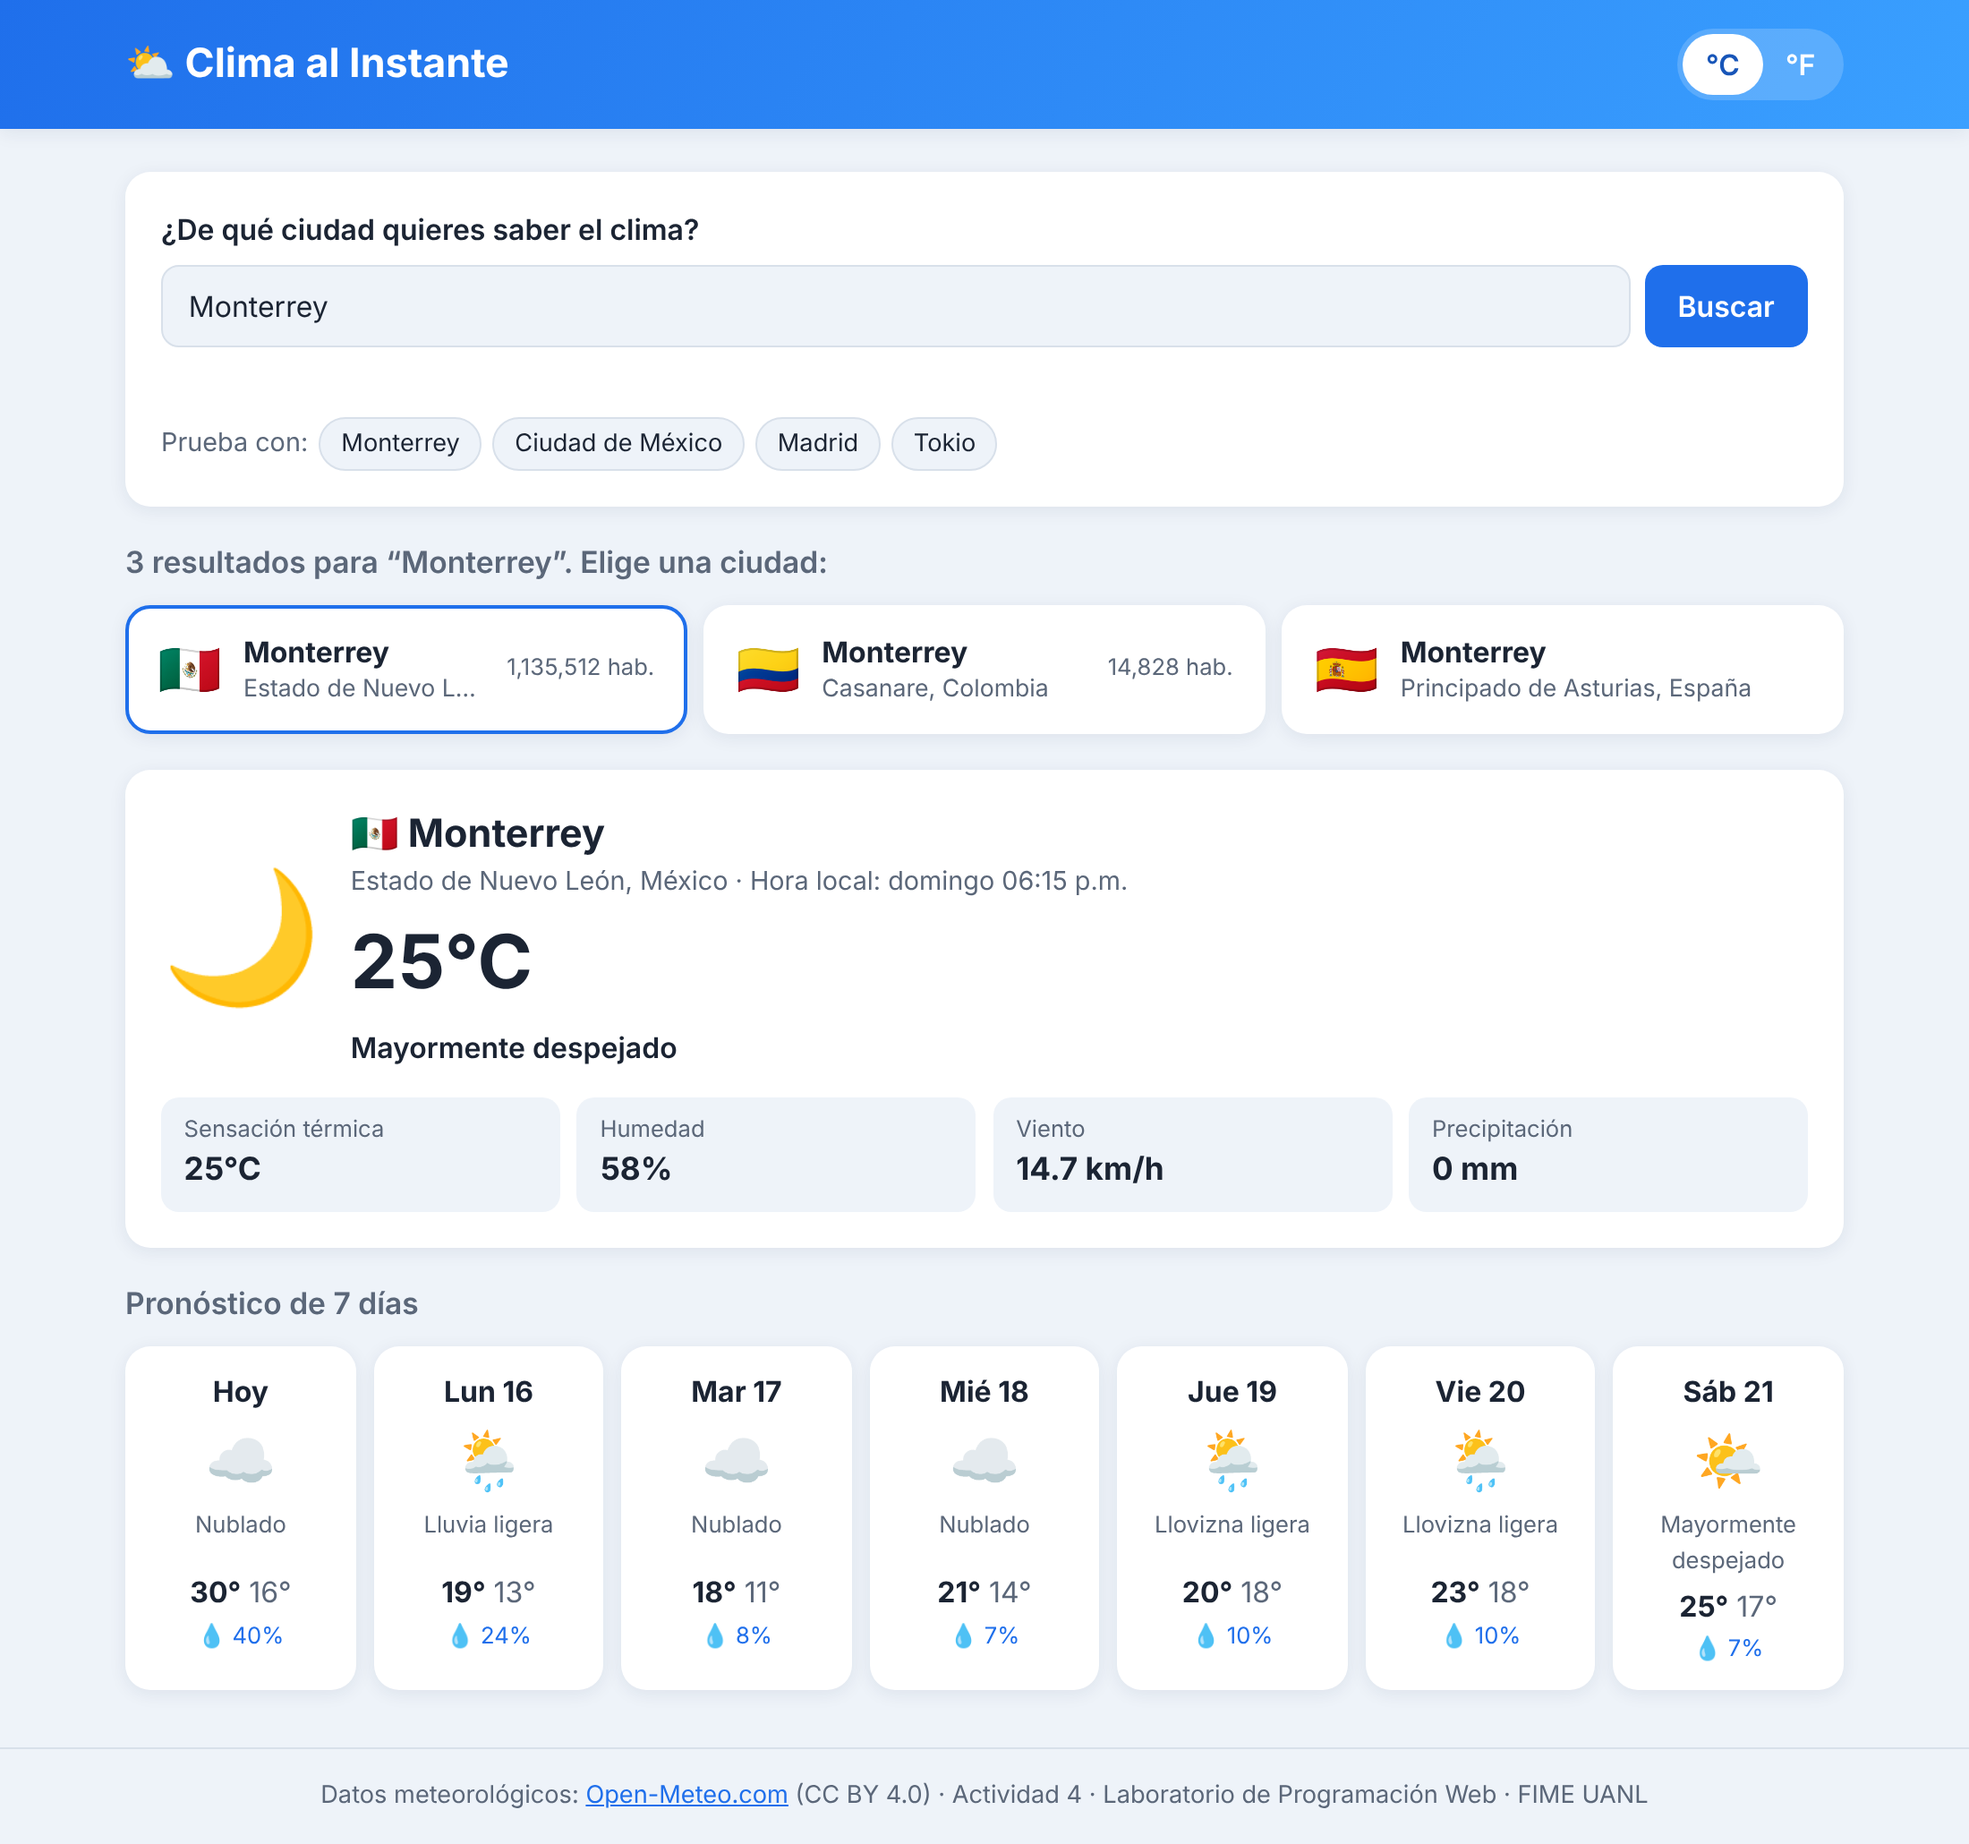
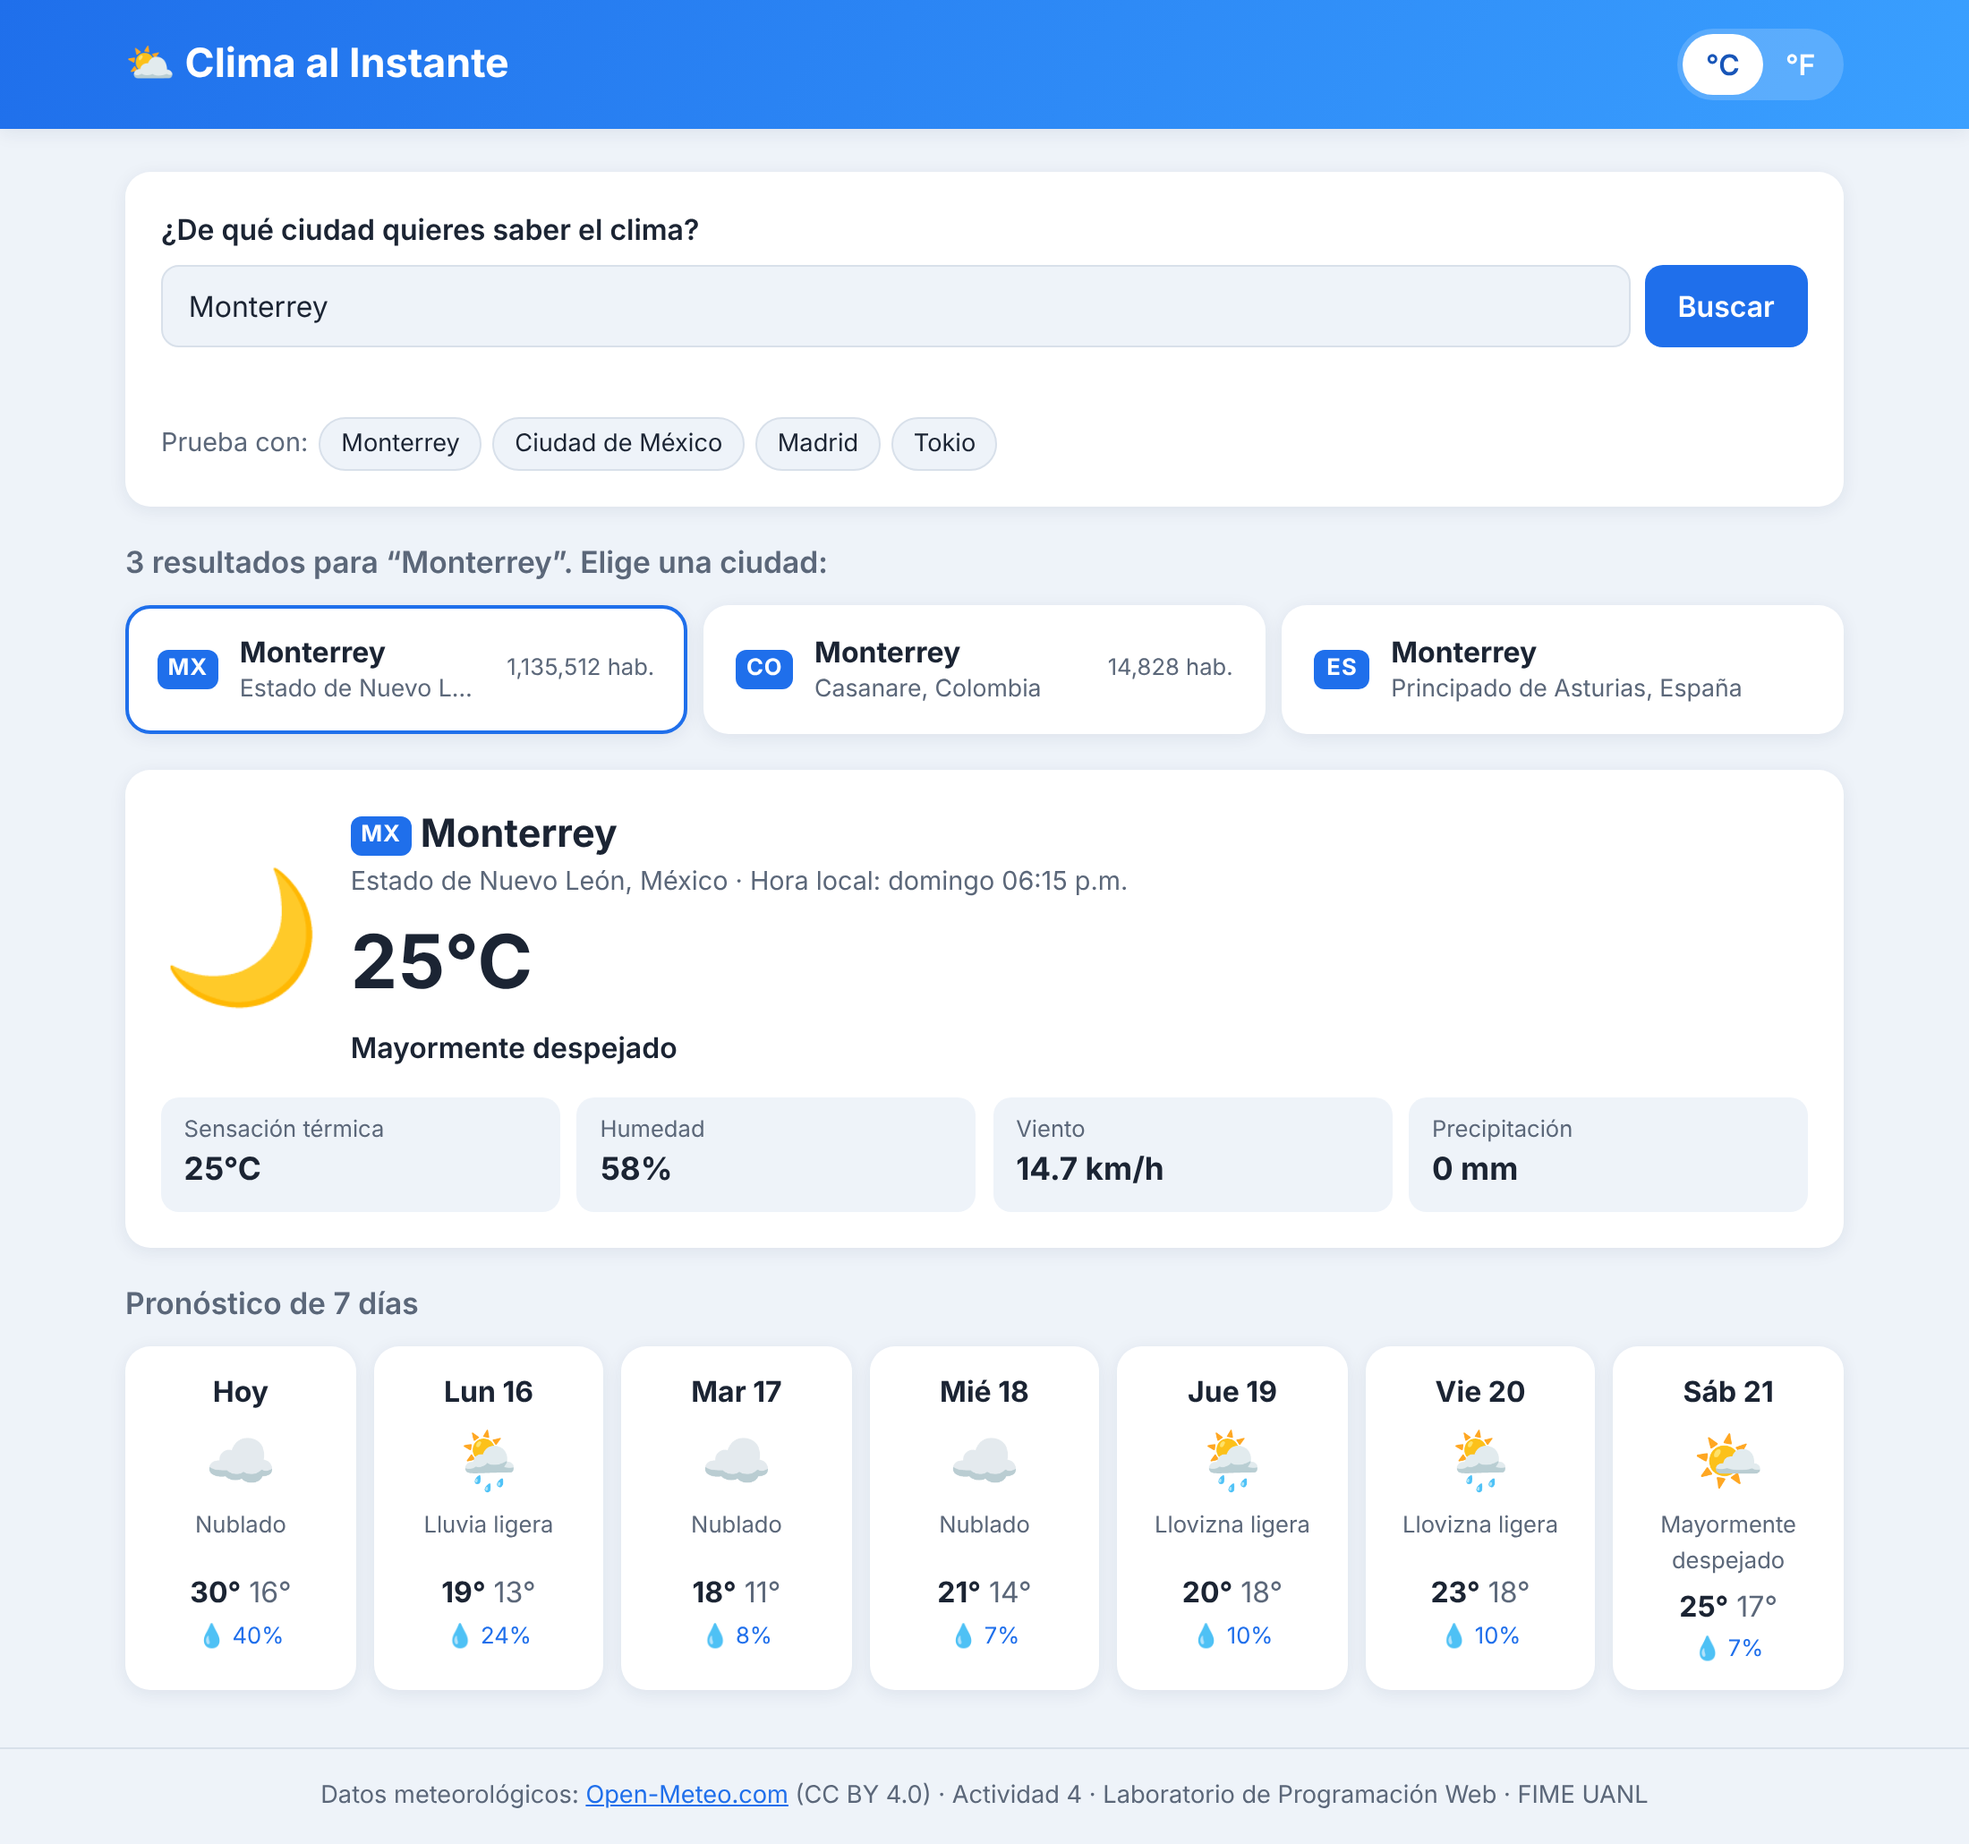
Muestra el código de país en lugar del emoji de bandera (Windows no lo dibuja) y actualiza capturas

diff --git a/js/ui.js b/js/ui.js
@@ -15,10 +15,14 @@ function crear(etiqueta, clase, texto) {
   return el;
 }
 
-/** Convierte un código de país ISO (MX) a su emoji de bandera (🇲🇽). */
-function bandera(codigoPais) {
-  if (!codigoPais || codigoPais.length !== 2) return '🌍';
-  return String.fromCodePoint(...[...codigoPais.toUpperCase()].map((c) => 0x1f1a5 + c.charCodeAt(0)));
+/**
+ * Crea una etiqueta con el código ISO del país (MX, ES, JP…).
+ * Se usa en lugar del emoji de bandera porque Windows no dibuja esos emojis.
+ */
+function etiquetaPais(codigoPais) {
+  const el = crear('span', 'pais', codigoPais ? codigoPais.toUpperCase() : '—');
+  el.setAttribute('aria-hidden', 'true');
+  return el;
 }
 
 function reemplazar(contenedor, ...hijos) {
@@ -103,7 +107,7 @@ export function mostrarCiudades(contenedor, ciudades, consulta, alSeleccionar) {
   for (const ciudad of ciudades) {
     const nodo = plantilla.content.cloneNode(true);
     const boton = nodo.querySelector('.ciudad');
-    nodo.querySelector('.ciudad__bandera').textContent = bandera(ciudad.country_code);
+    nodo.querySelector('.ciudad__bandera').append(etiquetaPais(ciudad.country_code));
     nodo.querySelector('.ciudad__nombre').textContent = ciudad.name;
     nodo.querySelector('.ciudad__region').textContent =
       [ciudad.admin1, ciudad.country].filter(Boolean).join(', ') || 'Región desconocida';
@@ -145,8 +149,10 @@ export function mostrarPronostico(contenedor, ciudad, datos) {
   const horaLocal = new Date(actual.time).toLocaleString('es-MX', {
     weekday: 'long', hour: '2-digit', minute: '2-digit',
   });
+  const lugar = crear('h2', 'actual__lugar');
+  lugar.append(etiquetaPais(ciudad.country_code), ` ${ciudad.name}`);
   textos.append(
-    crear('h2', 'actual__lugar', `${bandera(ciudad.country_code)} ${ciudad.name}`),
+    lugar,
     crear('p', 'actual__sub', `${[ciudad.admin1, ciudad.country].filter(Boolean).join(', ')} · Hora local: ${horaLocal}`),
     crear('p', 'actual__temp', `${Math.round(actual.temperature_2m)}${u.temperature_2m}`),
     crear('p', 'actual__desc', descripcion),

diff --git a/css/styles.css b/css/styles.css
@@ -123,7 +123,13 @@ main { flex: 1; padding-bottom: 2rem; }
 }
 .ciudad:hover, .ciudad:focus-visible { transform: translateY(-2px); border-color: var(--primario); outline: none; }
 .ciudad.seleccionada { border-color: var(--primario); }
-.ciudad__bandera { font-size: 1.8rem; line-height: 1; }
+.ciudad__bandera { line-height: 1; }
+.pais {
+  display: inline-block; min-width: 2.4em; text-align: center; vertical-align: middle;
+  font-size: .8rem; font-weight: 700; letter-spacing: .04em; line-height: 1;
+  padding: .35em .45em; border-radius: 6px;
+  background: var(--primario); color: #fff;
+}
 .ciudad__texto { display: flex; flex-direction: column; flex: 1; min-width: 0; }
 .ciudad__region { color: var(--texto-suave); overflow: hidden; text-overflow: ellipsis; white-space: nowrap; }
 .ciudad__poblacion { font-size: .8rem; color: var(--texto-suave); white-space: nowrap; }

diff --git a/index.html b/index.html
@@ -58,7 +58,7 @@
   <template id="tpl-ciudad">
     <li>
       <button type="button" class="ciudad">
-        <span class="ciudad__bandera" aria-hidden="true"></span>
+        <span class="ciudad__bandera"></span>
         <span class="ciudad__texto">
           <strong class="ciudad__nombre"></strong>
           <small class="ciudad__region"></small>

diff --git a/README.md b/README.md
@@ -119,7 +119,7 @@ Todos los errores muestran un botón **Reintentar**.
 
 1. Abre la aplicación: **https://leyesdavila.github.io/clima-al-instante/**
 2. Escribe el nombre de una ciudad (mínimo 2 letras) y presiona **Buscar** o Enter. También puedes usar las búsquedas rápidas (*Monterrey, Ciudad de México, Madrid, Tokio*).
-3. Aparece la lista de ciudades que coinciden, con bandera, estado/país y población. **Elige una**.
+3. Aparece la lista de ciudades que coinciden, con código de país, estado/país y población. **Elige una**.
 4. Se muestra el clima actual (temperatura, sensación térmica, humedad, viento, precipitación y hora local) y el **pronóstico de 7 días**.
 5. Con el interruptor **°C / °F** de la esquina superior cambias la unidad; la app vuelve a consultar la API y recuerda tu preferencia.
 
@@ -180,7 +180,7 @@ Vista en celular:
 
 **Robustez.** Se usa `AbortController` para dos cosas: poner un tiempo límite de 10 s y cancelar una búsqueda anterior si el usuario hace otra antes de que termine (evita que una respuesta lenta “pise” a una más reciente). También descubrí un detalle de la API que no está muy visible en la documentación: cuando no hay coincidencias, no regresa una lista vacía sino que omite la propiedad `results`; por eso se valida con `Array.isArray()`.
 
-**Presentación de datos.** Los componentes se crean a partir de elementos `<template>` del HTML y se llenan con `textContent`, nunca con `innerHTML`, para que ningún texto que venga del servicio externo pueda inyectar HTML. Los datos crudos se transforman antes de mostrarse: códigos WMO a texto e ícono, códigos de país a emoji de bandera, números con `Intl.NumberFormat` y fechas con `toLocaleDateString('es-MX')`.
+**Presentación de datos.** Los componentes se crean a partir de elementos `<template>` del HTML y se llenan con `textContent`, nunca con `innerHTML`, para que ningún texto que venga del servicio externo pueda inyectar HTML. Los datos crudos se transforman antes de mostrarse: códigos WMO a texto e ícono, números con `Intl.NumberFormat` y fechas con `toLocaleDateString('es-MX')`.
 
 **Experiencia de usuario.** Cada consulta tiene tres estados además del exitoso: **carga** (tarjetas esqueleto y spinner, con `aria-busy`), **vacío** (mensaje con sugerencias) y **error** (mensaje comprensible según el tipo de falla y botón *Reintentar*). Esto es justo lo que pide la situación de trabajo: integrar datos externos sin que el usuario tenga que capturarlos y sin dejarlo con una pantalla en blanco cuando algo falla.
 
